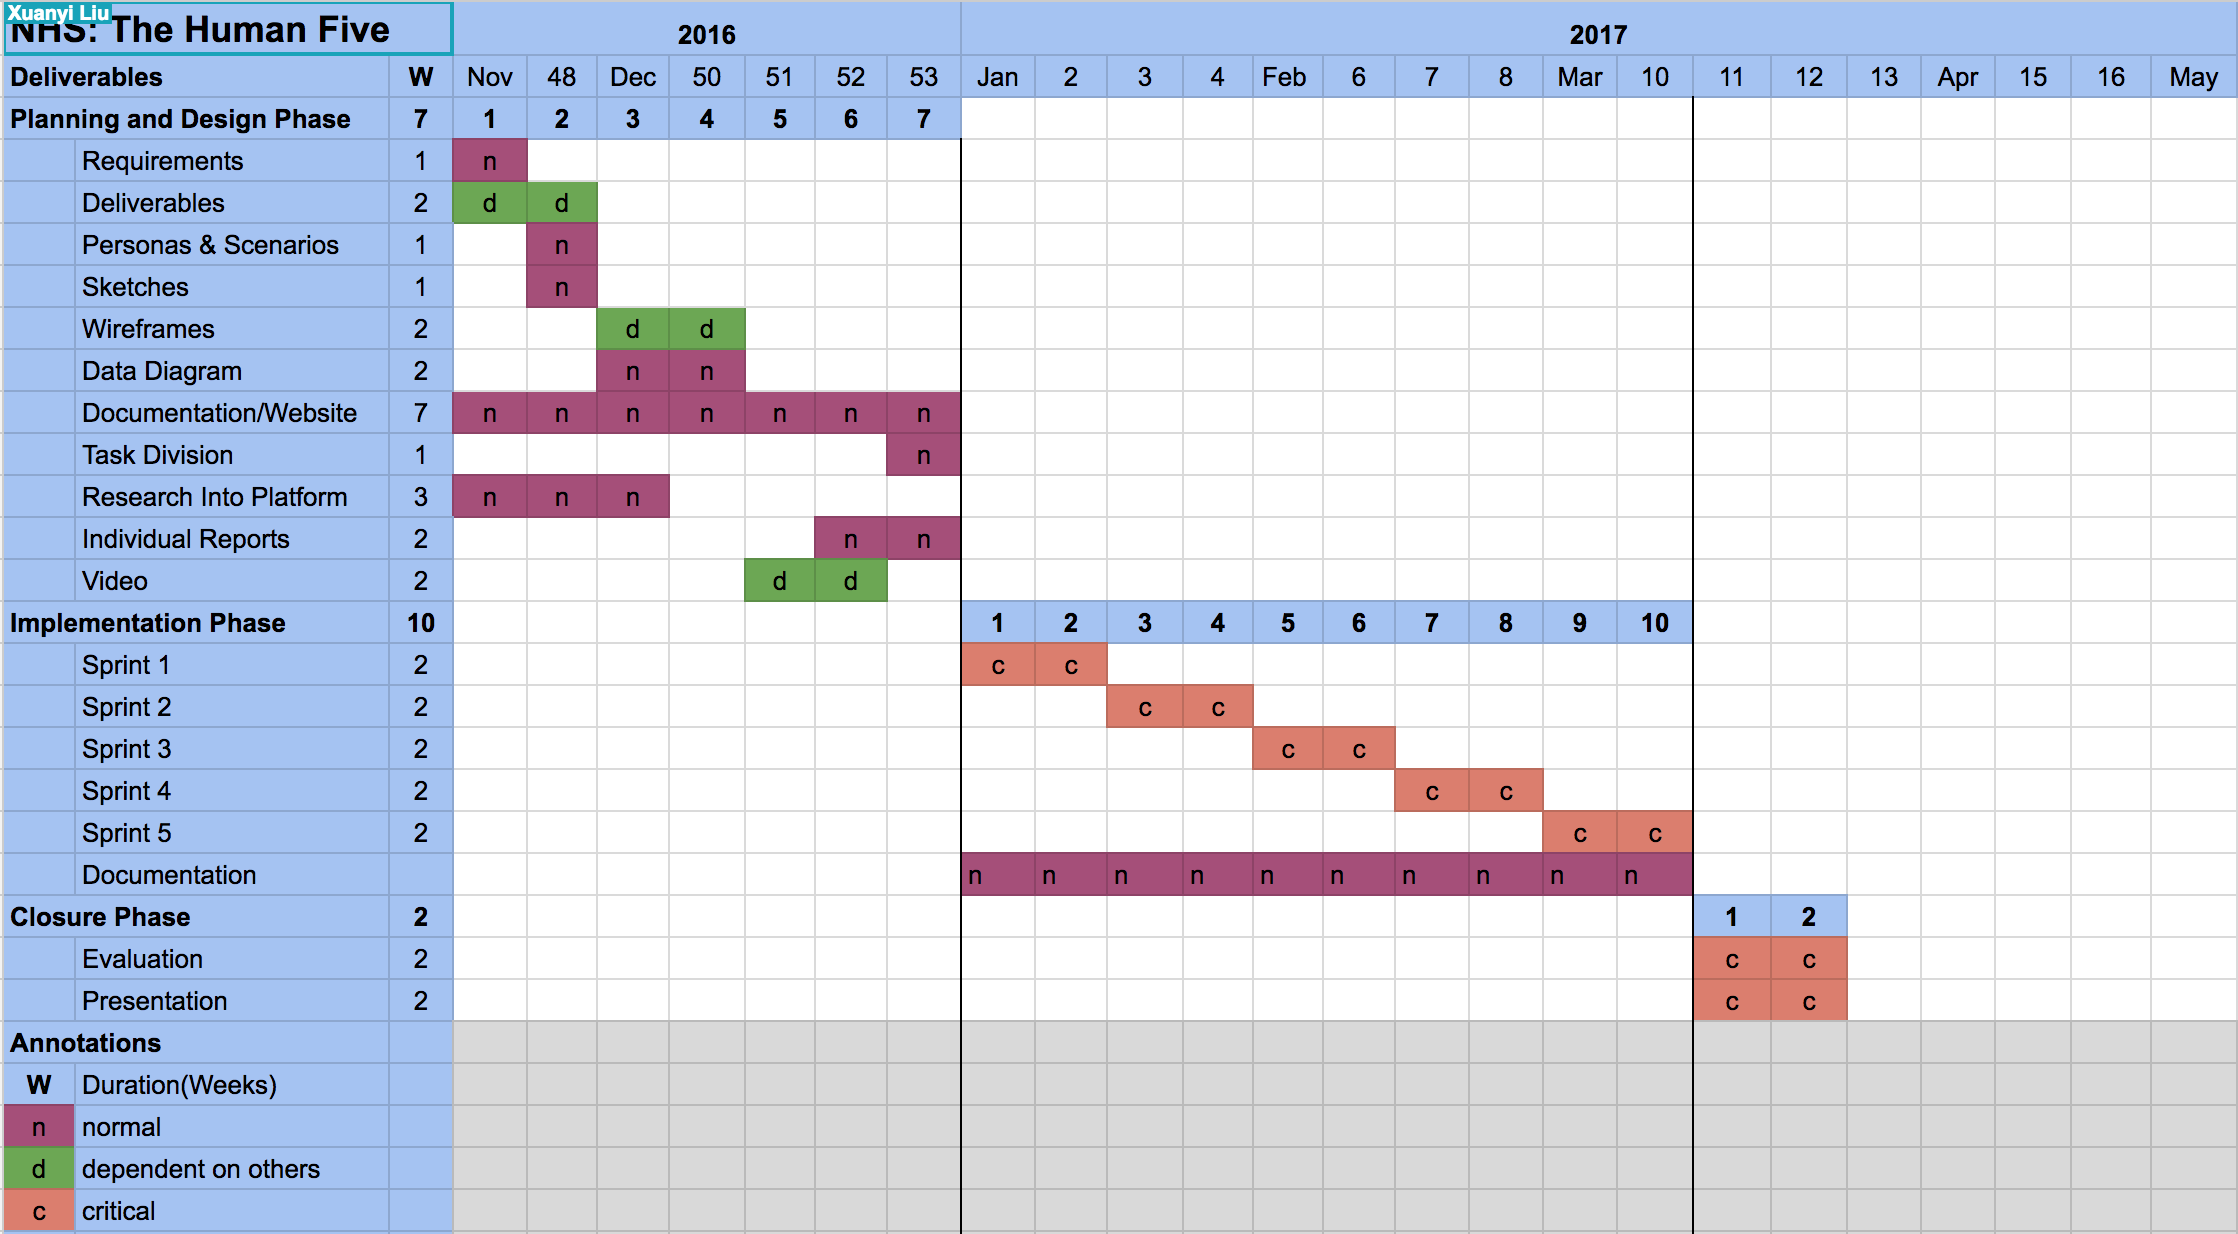
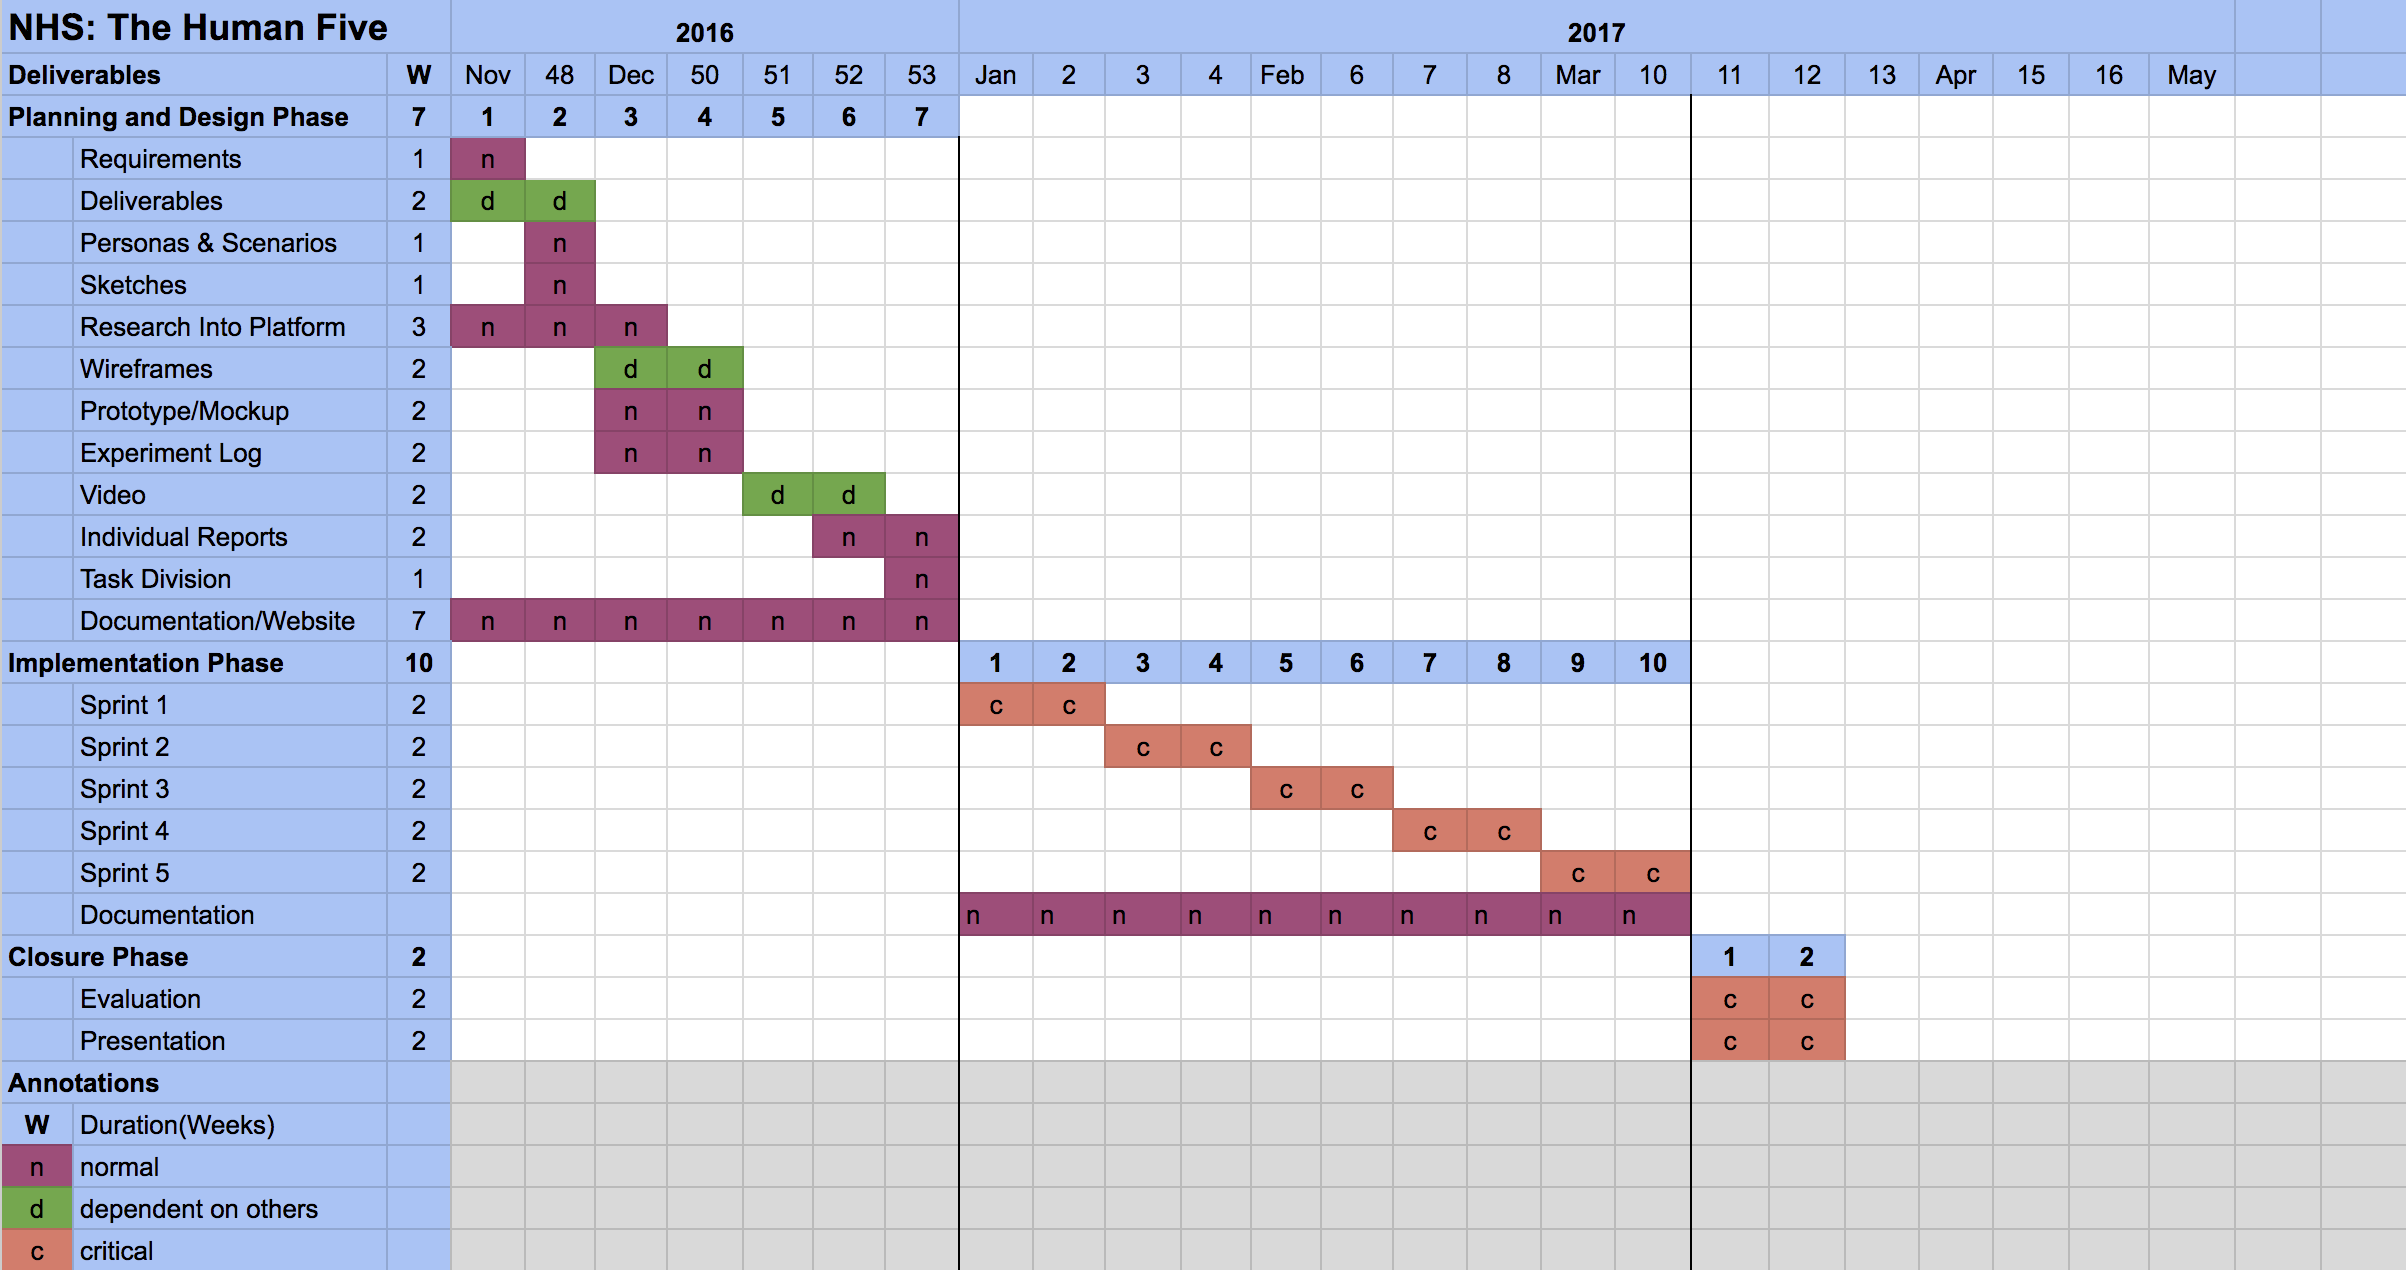
Changed Development and Management page with the current data

Changed region(s): [[0.0, 0.0, 1.0, 1.0]]

diff --git a/html5up-helios/management.html b/html5up-helios/management.html
@@ -94,7 +94,9 @@
 					<div class="container">
 						<article id="ganttChart" class="special">
 							<header><h2>Gantt Chart</h2></header><br>
-							<img class="img" src="images/Gant.png" alt="" style="width:100%;"/></a>
+							<p>This Gantt chart indicates how we hope the second term will be organised and sorted out. We should point that like any plan, this might be changed according to the needs of the moment. This gives a structure and framework of what we plan to do, for how long, and in what arrangement. Although, the time units in the chart are weeks, they show how much time we predict and foresee we'll spend on each task proportionally. This lets us know to what extent a specific undertaking is contrasted with different assignments. At the same time, the number of iterations.
+							</p><br>
+							<img class="img" src="images/Gant.png" alt="" style="width:90%;"/></a>
 					</div>
 					<br><br><br><br>
 					<div class="container">
@@ -103,33 +105,37 @@
 							<a href="https://docs.google.com/document/d/1bkuQ39Ap3GJNlDHAwyGjCAFkzNGxc1mQGooCajXAk2k/edit?usp=sharing"><h3><u>Biweekly report 1</u></h3></a><br>
 							<a href="https://drive.google.com/open?id=1t2NIhMWQ0MreIkKBRrzQMjiWZP_dO96-j8RuW83Ni6U"><h3><u>Biweekly report 2</u></h3></a><br>
 							<a href="https://drive.google.com/open?id=17IVoLBZb2oa2Fcw_vmYaRIvFELIV16S8ZlNckaGTH4E"><h3><u>Biweekly report 3</u></h3></a><br>
-							<a href="https://drive.google.com/open?id=1ypUOJd4mMk0lsSN4JIOxe6ESCo2UhuYZYSPzp708kJg"><h3><u>Biweekly report 4</u></h3></a>
+							<a href="https://drive.google.com/open?id=1ypUOJd4mMk0lsSN4JIOxe6ESCo2UhuYZYSPzp708kJg"><h3><u>Biweekly report 4</u></h3></a><br><br><br>
 					</div>
 					<div class="container">
 						<article id="meetings" class="special">
 							<header><h2>Minutes Reports links</h2></header><br>
-							<a href="https://docs.google.com/spreadsheets/d/18jl45nCY04U_CtcpSBKT2pvfd4bJxPMFhYOnFxNCvas/edit#gid=0"><h3><u>Minutes Report</u></h3></a>
+							<a href="https://drive.google.com/open?id=1ZxmlonO4s7hZxooUpUUid55kK7j7YnI5ENO5ScDLS4Y"><h3><u>Minutes Report 1</u></h3></a><br>
+							<a href="https://drive.google.com/open?id=1fxhrcdA4ChuybdArtCi3pn-_wBB1EjoczILVM5lxYog"><h3><u>Minutes Report 2</u></h3></a><br>
+							<a href="https://drive.google.com/open?id=1j8nhim7qE6ZpG5mJQvlgh7pBU5pYy5Lb-80h6_F7-Hk"><h3><u>Minutes Report 3</u></h3></a><br>
+							<a href="https://docs.google.com/document/d/1m9Z30AE6tTXokV7VdvklWPYinvCGApfvXb0By-jO_rs"><h3><u>Minutes Report 4</u></h3></a><br>
+							<br><br><br><br>
 					</div>
 
 					
  				<div class="container">
  					<article id="teamCollaboration" class="special">
- 							<p><header><h2>Team Collaboration</h2></header></p>
- 							<br><h4><p>&nbsp;&nbsp;&nbsp;&nbsp;&nbsp;&nbsp;&nbsp;&nbsp;Trello</p></h4>
- 							<img style="width:50%" src="https://upload.wikimedia.org/wikipedia/commons/thumb/7/7a/Trello-logo-blue.svg/2000px-Trello-logo-blue.svg.png"></i>
- 							<p>Trello is a collaboration Kanban style tool that allows projects to be organised into boards. It allows to keep track of the team’s tasks and their corresponding deadlines. It also allows to assign those tasks to individual members of the team and add task related attachments to the cards. Trello enables users to create boards which serve as a project which can further be divided into lists and cards which represent the various stages of progress, and tasks & ideas respectively. Collectively, it is very flexible and provides an overview and easy access to essential information.</p>
- 							<br><h4><p>&nbsp;&nbsp;&nbsp;&nbsp;&nbsp;&nbsp;&nbsp;&nbsp;Slack</p></h4>
- 							<img style="width:50%" src="https://brandfolder.com/slack/logo/slack-primary-logo.png"></i>
- 							<p>The team made use of Slack as the main communication channel alongside WhatsApp. Slack caters to a large number of robust features which makes a very efficient team messaging app. It allows creation of separate channels for different discussions, uploading and sharing files, integration with 3rd party apps like Skype for video calls, events synchronisation with calendars and many more. All these features helps the team to keep track of all tasks at hand and communicate in a more organised manner.</p>
- 							<br><h4><p>&nbsp;&nbsp;&nbsp;&nbsp;&nbsp;&nbsp;&nbsp;&nbsp;Google Drive</p></h4>
-							<img style="width:30%" src="https://www.seeklogo.net/wp-content/uploads/2012/04/google-drive-logo-vector-01.png"></i>
- 							<p>To share files and documents across the team, we made use of Google Drive. Google Drive allows multiple members of the team to edit, suggest and view documents simultaneously in real-time. The fulfillment of all essential features coupled with the fact that all members had had prior experience with working with Google Drive made it an apt choice.</p>
- 							<br><h4><p>&nbsp;&nbsp;&nbsp;&nbsp;&nbsp;&nbsp;&nbsp;&nbsp;Version Control</p></h4>
- 							<img style="width:50%" src="https://crossbrowsertesting.com/design/images/github-logo.png"></i>
- 							<p>We are making use of GitHub as a version control and source code management system. Being under the student program for GitHub, GitHub allows the creation of private repositories which are otherwise not available in case of a free account. It allows us to create different branches on git for different team members, who can make the required amends to the code and push the changes to the master branch. GitHub thus allows us to work on the project efficiently.</p>
- 							<br><h4><p>&nbsp;&nbsp;&nbsp;&nbsp;&nbsp;&nbsp;&nbsp;&nbsp;Prototyping</p></h4>
- 							<img style="width:50%" src="http://deshack.net/wp-content/uploads/2015/07/balsamiq_big.jpg"></i>
- 							<p>We are using Balsamiq Mockups as the tool for creating mockups for our mobile app. Balsamiq acts a GUI mockup and website builder application allowing one to make use of in-built widgets and hence arrange them using drag-and-drop. It also allows version control for the mockups and a few 3rd party extensions to make use of.</p>
+						<p><h2 class="text-center">Team Collaboration Tools</h2></p><br><br><br>
+						<!-- <br><h2><p>&nbsp;&nbsp;&nbsp;&nbsp;&nbsp;&nbsp;&nbsp;&nbsp;Trello</p></h2> -->
+						<br><img style="width:30%" src="https://upload.wikimedia.org/wikipedia/commons/thumb/7/7a/Trello-logo-blue.svg/2000px-Trello-logo-blue.svg.png"></i>
+						<p>Trello is a collaboration Kanban style tool that allows projects to be organised into boards. It allows to keep track of the team’s tasks and their corresponding deadlines. It also allows to assign those tasks to individual members of the team and add task related attachments to the cards. Trello enables users to create boards which serve as a project which can further be divided into lists and cards which represent the various stages of progress, and tasks & ideas respectively. Collectively, it is very flexible and provides an overview and easy access to essential information.</p>
+						<!-- <br><h2><p>&nbsp;&nbsp;&nbsp;&nbsp;&nbsp;&nbsp;&nbsp;&nbsp;Slack</p></h2> -->
+						<br><img style="width:30%" src="https://brandfolder.com/slack/logo/slack-primary-logo.png"></i>
+						<p>The team made use of Slack as the main communication channel alongside WhatsApp. Slack caters to a large number of robust features which makes a very efficient team messaging app. It allows creation of separate channels for different discussions, uploading and sharing files, integration with 3rd party apps like Skype for video calls, events synchronisation with calendars and many more. All these features helps the team to keep track of all tasks at hand and communicate in a more organised manner.</p>
+						<!-- <br><h2><p>&nbsp;&nbsp;&nbsp;&nbsp;&nbsp;&nbsp;&nbsp;&nbsp;Google Drive</p></h2> -->
+						<br><img style="width:15%" src="https://www.seeklogo.net/wp-content/uploads/2012/04/google-drive-logo-vector-01.png"></i>
+						<p>To share files and documents across the team, we made use of Google Drive. Google Drive allows multiple members of the team to edit, suggest and view documents simultaneously in real-time. The fulfillment of all essential features coupled with the fact that all members had had prior experience with working with Google Drive made it an apt choice.</p>
+						<!-- <br><h2><p>&nbsp;&nbsp;&nbsp;&nbsp;&nbsp;&nbsp;&nbsp;&nbsp;Version Control</p></h2> -->
+						<br><img style="width:30%" src="https://crossbrowsertesting.com/design/images/github-logo.png"></i>
+						<p>We are making use of GitHub as a version control and source code management system. Being under the student program for GitHub, GitHub allows the creation of private repositories which are otherwise not available in case of a free account. It allows us to create different branches on git for different team members, who can make the required amends to the code and push the changes to the master branch. GitHub thus allows us to work on the project efficiently.</p>
+						<!-- <br><h2><p>&nbsp;&nbsp;&nbsp;&nbsp;&nbsp;&nbsp;&nbsp;&nbsp;Prototyping</p></h2> -->
+						<br><img style="width:30%" src="http://deshack.net/wp-content/uploads/2015/07/balsamiq_big.jpg"></i>
+						<p>We are using Balsamiq Mockups as the tool for creating mockups for our mobile app. Balsamiq acts a GUI mockup and website builder application allowing one to make use of in-built widgets and hence arrange them using drag-and-drop. It also allows version control for the mockups and a few 3rd party extensions to make use of.</p>
 					</article>
  				</div>
 

diff --git a/html5up-helios/development.html b/html5up-helios/development.html
@@ -156,19 +156,9 @@
                                    
                                     
 
-                                    <br><br><br><br><h3><u>Prototypes</u></h3><br><br>
-
-                                    <div class="row">
-	                                    <div class="col-md-2" style="width: 35%;">
-	                                            <p class="text-center"> Login</p><img src="images/Wireframe_png/1.jpg" class="img-border" style="width: 90%;">
-	                                    </div>
-	                                    <div class="col-md-1"></div>
-	                                    <div class="col-md-2" style="width: 35%;">
-	                                            <p class="text-center"> Register</p><img src="images/Wireframe_png/2.jpg" class="img-border" style="width: 90%;">
-	                                    </div>
-                                    </div>
-
-                            		<div class="row">
+                                    <br><br><br><br><u><h6><font size="+5">Prototypes</font></h6></u><br><br>
+                                    <a href="https://creator.ionic.io/share/5a111ed7cfbe"><h3>You can access the complete prototype from this link</h3></a><br><br>
+                            		<div class="row text-center">
 	                                    <div class="col-md-2" style="width: 35%;">
 	                                            <p class="text-center"> THF5</p><img src="images/Wireframe_png/3.jpg" class="img-border" style="width: 90%;">
 	                                    </div>
@@ -179,20 +169,15 @@
                                     </div>
 
 
-                                    <div class="row">
+                                    <div class="row text-center">
 	                                    <div class="col-md-2" style="width: 35%;">
 	                                            <p class="text-center"> Goals</p><img src="images/Wireframe_png/5.jpg"  class="img-border" style="width: 90%;">
 	                                    </div>
 	                                    <div class="col-md-1"></div>
 	                                    <div class="col-md-2" style="width: 35%;">
-	                                            <p class="text-center"> Add Goals</p><img src="images/Wireframe_png/6.jpg" class="img-border" style="width: 90%;">
+	                                            <p class="text-center"> Register</p><img src="images/Wireframe_png/2.jpg" class="img-border" style="width: 90%;">
 	                                    </div>
                                     </div>		
-                                     <div class="row">
-	                                    <div class="col-md-2" style="width: 35%;">
-	                                            <p class="text-center"> Statistics</p><img src="images/Wireframe_png/7.jpg" class="img-border" style="width: 90%;">
-	                                    </div>
-	                                 </div>
 	                                 </strong>				
 								</div>
 					</section>
@@ -217,7 +202,10 @@
 								<div class="col-lg-12 text-center">
 									<h2 class="section-heading">GitHub Repository</h2>
 										<a href="https://github.com/Keshav97/NHS-IBM-Genomics">
-										<br><br><b>Click to visit our GitHub.</b>
+										<br><br><b>Click to visit our GitHub for website and testing.</b>
+										</a>
+										<a href="https://github.com/Keshav97/NHS-IBM-The-Human-Five">
+										<br><br><b>Click to visit our GitHub for the application.</b>
 										</a>
 								</div>
 							</div>
